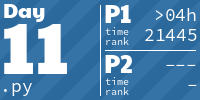
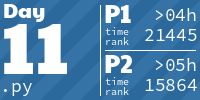
2024 - Day 11

Changed region(s): [[0.72, 0.78, 0.99, 0.93], [0.78, 0.57, 0.99, 0.72]]

diff --git a/ibidem/advent_of_code/y2024/dec11.py b/ibidem/advent_of_code/y2024/dec11.py
@@ -29,15 +29,27 @@ def blink(stones, iteration):
 
 
 def part1(stones: list[int]):
-    for i in track(range(25)):
-        stones = blink(stones, i + 1)
-    return len(stones)
+    num_stones = 0
+    for stone in stones:
+        num_stones += blink2(stone, 25)
+    return num_stones
+
+
+@lru_cache(maxsize=None)
+def blink2(stone, depth):
+    if depth == 0:
+        return 1
+    num_stones = 0
+    for stone in blink_stone(stone):
+        num_stones += blink2(stone, depth - 1)
+    return num_stones
 
 
 def part2(stones: list[int]):
-    for i in range(75):
-        stones = blink(stones, i + 1)
-    return len(stones)
+    num_stones = 0
+    for stone in stones:
+        num_stones += blink2(stone, 75)
+    return num_stones
 
 
 if __name__ == "__main__":

diff --git a/ibidem/advent_of_code/y2024/test/test_dec11.py b/ibidem/advent_of_code/y2024/test/test_dec11.py
@@ -8,8 +8,8 @@ from ibidem.advent_of_code.y2024.dec11 import load, part1, part2
 
 Case = namedtuple('Case', 'part1 part2 input')
 
-TEST_INPUTS = [
-    Case(55312, NotImplemented, io.StringIO(textwrap.dedent("125 17"))),
+TEST_INPUTS = [ # Part 2 answer found by running test after code worked for real input
+    Case(55312, 65601038650482, io.StringIO(textwrap.dedent("125 17"))),
 ]
 
 
@@ -31,7 +31,6 @@ class TestDec11():
         result = part1(loaded)
         assert result == case.part1
 
-    @pytest.mark.skip("Takes forever, no target to compare to")
     def test_part2(self, loaded, case):
         result = part2(loaded)
         assert result == case.part2
